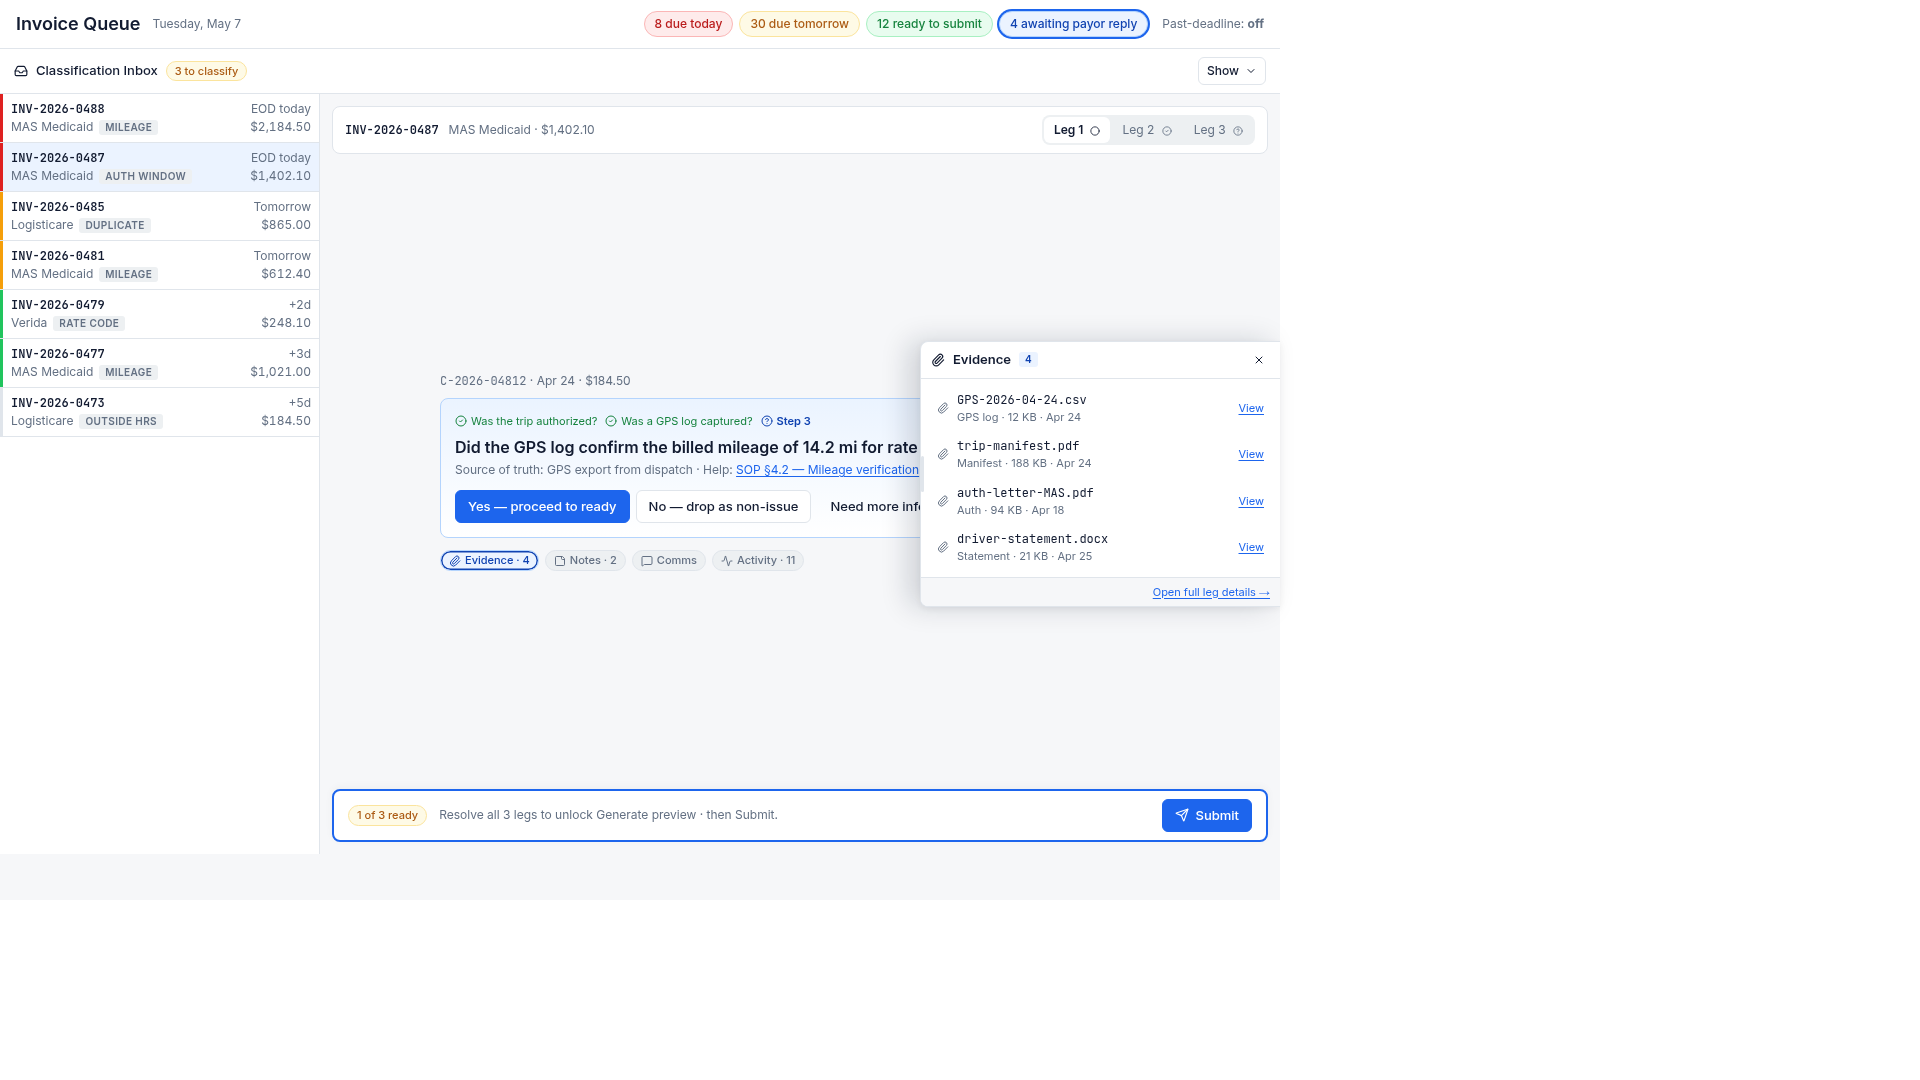
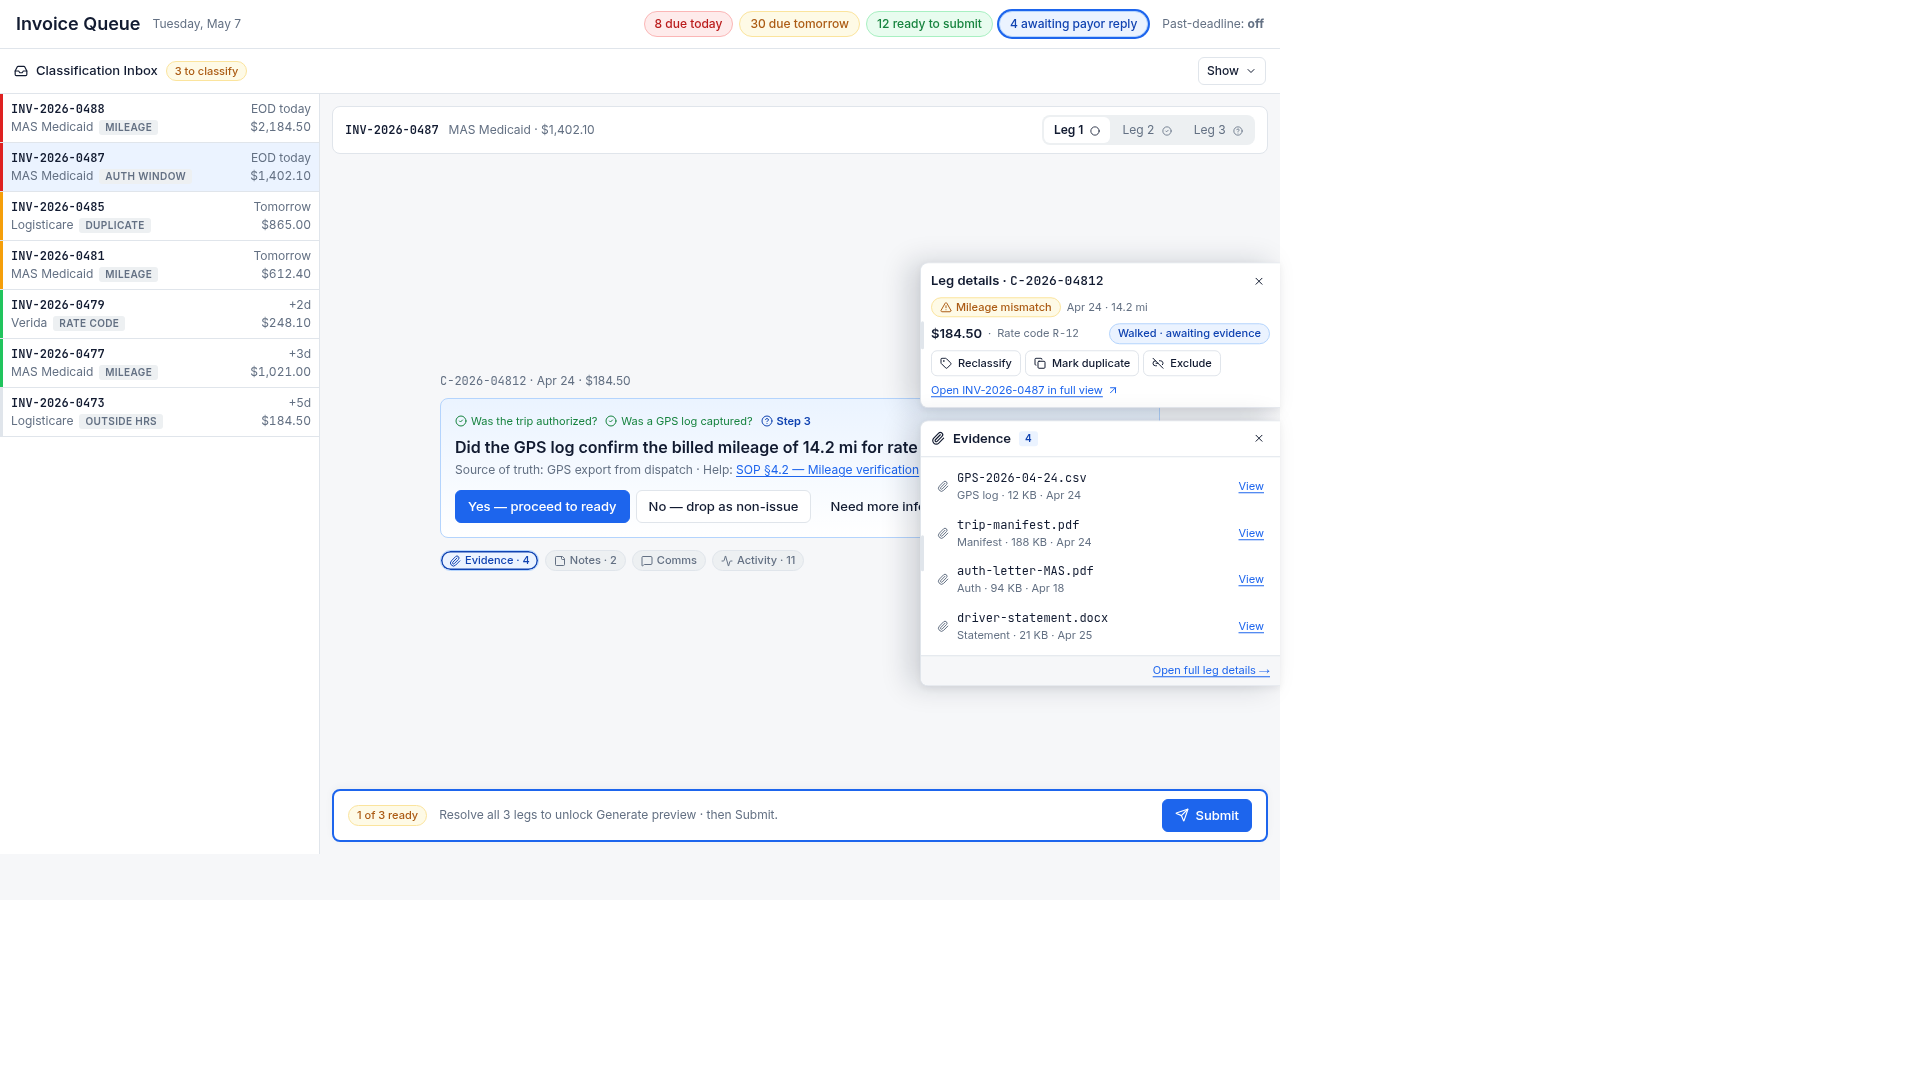
Restructure the edge drawer to display separate floating header and content cards
Refactor V3DrawerMiniInContext.tsx to split the edge drawer panel into two distinct floating cards: a header for leg context and a separate card for the section selection, with a gap between them.

Replit-Commit-Author: Agent
Replit-Commit-Session-Id: 3c685d86-7070-4473-b9d5-7d94a24199d3
Replit-Commit-Checkpoint-Type: full_checkpoint
Replit-Commit-Event-Id: 4fe2826c-d4f3-4aeb-bde9-922620fdfec9
Replit-Commit-Screenshot-Url: https://storage.googleapis.com/screenshot-production-us-central1/4276ad0d-3f74-4bd1-8f69-afddd96a767f/3c685d86-7070-4473-b9d5-7d94a24199d3/Tj9I4w2
Replit-Helium-Checkpoint-Created: true

Changed region(s): [[0.4688, 0.2444, 0.6562, 0.6111], [0.5938, 0.6111, 0.6562, 0.6417]]

diff --git a/artifacts/mockup-sandbox/src/components/mockups/queue-redesign/V3DrawerMiniInContext.tsx b/artifacts/mockup-sandbox/src/components/mockups/queue-redesign/V3DrawerMiniInContext.tsx
@@ -1,5 +1,5 @@
 import "./_queue.css";
-import { Pin } from "lucide-react";
+import { Pin, AlertTriangle, Tag, Copy, Link2Off, ArrowUpRight } from "lucide-react";
 import {
   HeaderStrip, ClassificationStrip, MasterList, SopActiveCard,
   legs, groupSummary, Icons,
@@ -269,18 +269,73 @@ function MiniFooter() {
   );
 }
 
-/* ── Imagining 2 — edge drawer (slides in from the right edge,
-   short, vertically centered, NOT full-height) ───────────────────────── */
+/* ── Imagining 2 — edge drawer ────────────────────────────────────────
+   Two separate floating cards docked to the right edge with a gap
+   between them:
+     1. Leg-context header (classification, meta, $/rate, status,
+        reclassify/duplicate/exclude/open-in-full-view) — comes out
+        with the drawer no matter which section was opened.
+     2. The section selection card (header + content rectangle).
+   Group is vertically centered around the hero. NOT full-height. */
 
 function EdgeDrawerPanel({ section }: { section: Section }) {
+  const W = 360;
   return (
     <div
-      role="dialog"
-      aria-label={`${chipMeta[section].label} — quick view`}
       style={{
         position: "absolute",
         top: "50%", right: 0, transform: "translateY(-50%)",
-        width: 360, maxHeight: 520,
+        width: W,
+        zIndex: 5,
+        display: "flex", flexDirection: "column",
+        gap: 12,
+      }}
+    >
+      {/* Card 1 — floating leg-context header */}
+      <LegContextHeaderCard />
+
+      {/* Card 2 — the selection */}
+      <div
+        role="dialog"
+        aria-label={`${chipMeta[section].label} — quick view`}
+        style={{
+          position: "relative",
+          background: "var(--cc-card)",
+          borderTop: "1px solid var(--cc-border)",
+          borderBottom: "1px solid var(--cc-border)",
+          borderLeft: "1px solid var(--cc-border)",
+          borderTopLeftRadius: "var(--cc-radius)",
+          borderBottomLeftRadius: "var(--cc-radius)",
+          boxShadow: "-12px 0 28px rgba(15,23,42,0.16), 0 2px 6px rgba(15,23,42,0.06)",
+          display: "flex", flexDirection: "column",
+          maxHeight: 420,
+          overflow: "hidden",
+        }}
+      >
+        {/* Drag handle stripe on the left edge */}
+        <div style={{
+          position: "absolute", left: 0, top: "50%",
+          transform: "translateY(-50%)",
+          width: 3, height: 36, borderRadius: 2,
+          background: "var(--cc-border)",
+        }} />
+        <MiniHeader section={section} hideHint />
+        <div style={{ padding: "0.5rem 0.625rem", overflow: "auto", flex: 1 }}>
+          <MiniBody section={section} />
+        </div>
+        <MiniFooter />
+      </div>
+    </div>
+  );
+}
+
+function LegContextHeaderCard() {
+  return (
+    <div
+      role="region"
+      aria-label="Leg context"
+      style={{
+        position: "relative",
         background: "var(--cc-card)",
         borderTop: "1px solid var(--cc-border)",
         borderBottom: "1px solid var(--cc-border)",
@@ -288,23 +343,75 @@ function EdgeDrawerPanel({ section }: { section: Section }) {
         borderTopLeftRadius: "var(--cc-radius)",
         borderBottomLeftRadius: "var(--cc-radius)",
         boxShadow: "-12px 0 28px rgba(15,23,42,0.16), 0 2px 6px rgba(15,23,42,0.06)",
-        zIndex: 5,
-        display: "flex", flexDirection: "column",
-        overflow: "hidden",
+        padding: "0.5rem 0.625rem",
+        display: "flex", flexDirection: "column", gap: 6,
       }}
     >
-      {/* Drag handle stripe on the left edge */}
+      {/* Drag handle stripe */}
       <div style={{
         position: "absolute", left: 0, top: "50%",
         transform: "translateY(-50%)",
-        width: 3, height: 36, borderRadius: 2,
+        width: 3, height: 28, borderRadius: 2,
         background: "var(--cc-border)",
       }} />
-      <MiniHeader section={section} hideHint />
-      <div style={{ padding: "0.5rem 0.625rem", overflow: "auto", flex: 1 }}>
-        <MiniBody section={section} />
+
+      {/* Title row — leg id + close */}
+      <div style={{ display: "flex", alignItems: "center", gap: 8 }}>
+        <span style={{ fontSize: "0.8125rem", fontWeight: 600 }}>
+          Leg details · <span className="mono" style={{ fontWeight: 500 }}>C-2026-04812</span>
+        </span>
+        <button
+          aria-label="Close"
+          className="cc-btn cc-btn-ghost cc-btn-sm"
+          style={{ marginLeft: "auto", padding: "2px 4px" }}
+        >
+          <Icons.X className="w-3 h-3" />
+        </button>
       </div>
-      <MiniFooter />
+
+      {/* Classification + meta */}
+      <div style={{ display: "flex", alignItems: "center", gap: 6, flexWrap: "wrap" }}>
+        <span className="cc-pill cc-pill-amber" style={{ fontSize: "0.6875rem" }}>
+          <AlertTriangle className="w-3 h-3" /> Mileage mismatch
+        </span>
+        <span className="cc-meta" style={{ fontSize: "0.6875rem" }}>Apr 24 · 14.2 mi</span>
+      </div>
+
+      {/* $ + rate + status */}
+      <div style={{ display: "flex", alignItems: "center", gap: 6, flexWrap: "wrap" }}>
+        <span style={{ fontSize: "0.8125rem", fontWeight: 600 }}>$184.50</span>
+        <span className="cc-meta" style={{ fontSize: "0.6875rem" }}>·</span>
+        <span className="cc-meta" style={{ fontSize: "0.6875rem" }}>
+          Rate code <span className="mono">R-12</span>
+        </span>
+        <span className="cc-pill cc-pill-blue" style={{ fontSize: "0.6875rem", marginLeft: "auto" }}>
+          Walked · awaiting evidence
+        </span>
+      </div>
+
+      {/* Quick actions */}
+      <div style={{ display: "flex", gap: 4, flexWrap: "wrap" }}>
+        <button className="cc-btn cc-btn-sm" style={{ fontSize: "0.6875rem" }}>
+          <Tag className="w-3 h-3" /> Reclassify
+        </button>
+        <button className="cc-btn cc-btn-sm" style={{ fontSize: "0.6875rem" }}>
+          <Copy className="w-3 h-3" /> Mark duplicate
+        </button>
+        <button className="cc-btn cc-btn-sm" style={{ fontSize: "0.6875rem" }}>
+          <Link2Off className="w-3 h-3" /> Exclude
+        </button>
+      </div>
+
+      {/* Open-in-full link — invoice context lives here */}
+      <a
+        className="cc-link"
+        style={{
+          fontSize: "0.6875rem",
+          display: "inline-flex", alignItems: "center", gap: 4,
+        }}
+      >
+        Open INV-2026-0487 in full view <ArrowUpRight className="w-3 h-3" />
+      </a>
     </div>
   );
 }
